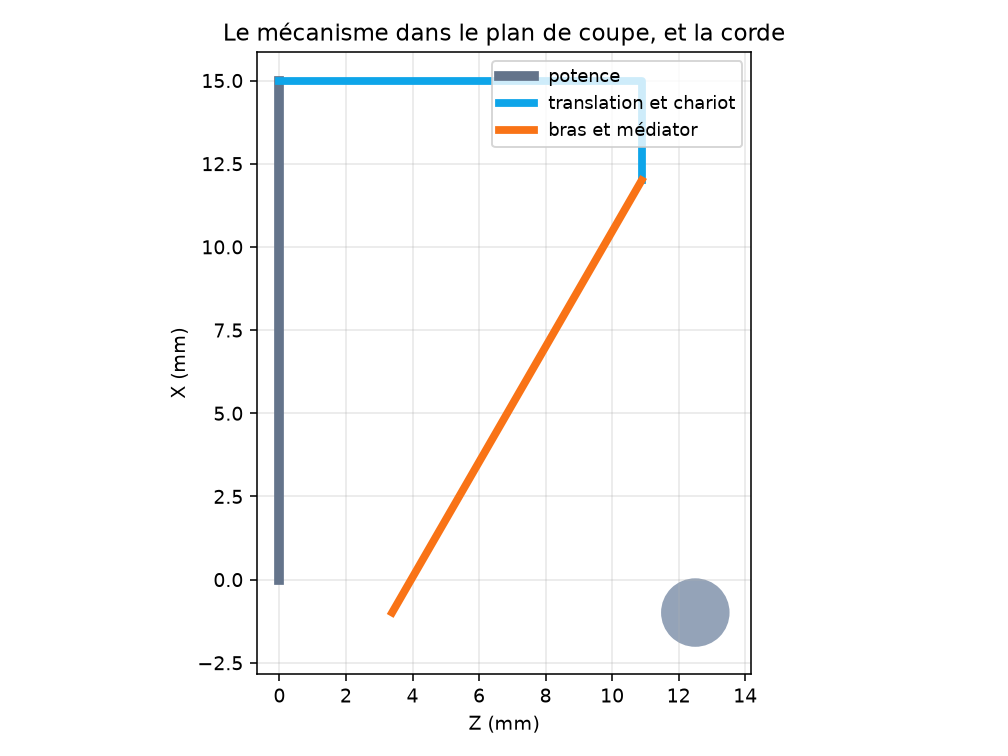
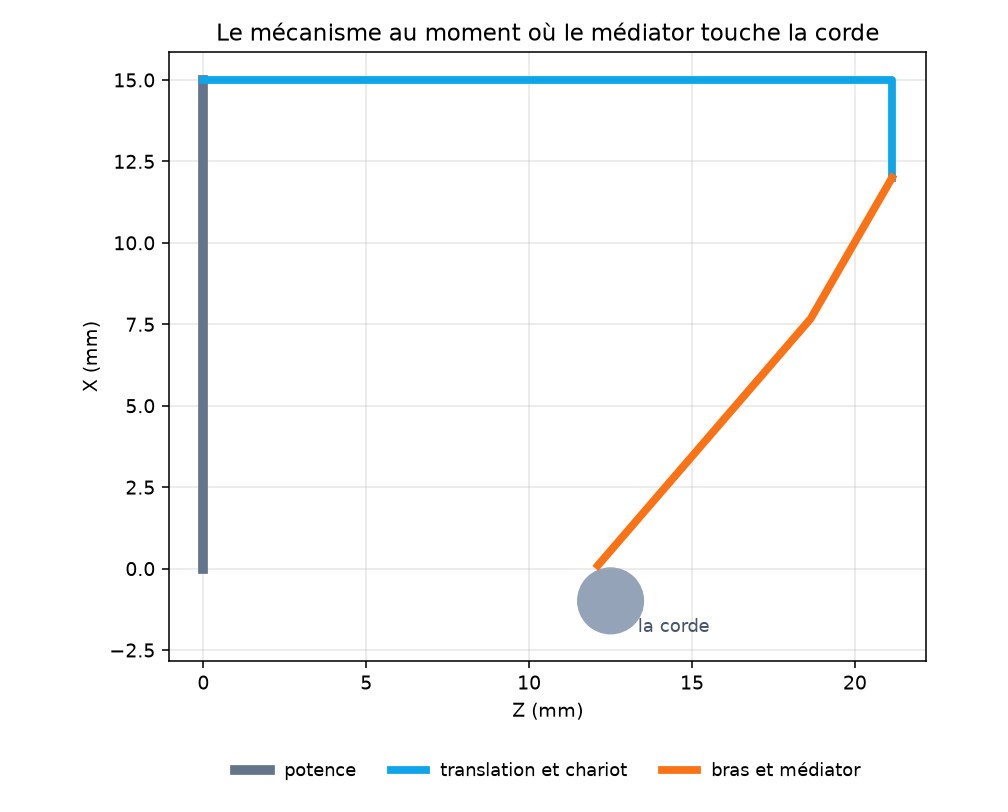
Les images fausses quittent la galerie, et les chapitres cessent d'étaler la page
Robot guitariste : trois figures de plus sont retirées. La simulation
cinématique venait d'un modèle abrégé en unités abstraites, la courbe
d'angle selon la distance doublait une figure déjà présente, et celle
dite « distances corde à corde » montrait en réalité la distance de la
pointe à la corde au fil du temps.

Le relevé du geste tient maintenant en une seule figure, chemin et
vitesse côte à côte, les deux chiffres pris sur la même prise. Ils
venaient de deux prises différentes, ce qui aurait donné 37,7 mm de
balayage pour 465 mm/s, deux nombres jamais produits ensemble.

La coupe du mécanisme est prise à un instant de contact : elle l'était à
un instant quelconque, le médiator se trouvait à l'autre bout de sa
course et la corde flottait seule dans un coin.

Réseau de capteurs : la galerie montre l'atelier refait, ses panneaux
ancrables, son banc réglable et ses courbes. La part du cours est dite,
le programme principal main.c est la part personnelle du micrologiciel.

La liste des chapitres d'un film défile dans son propre cadre :
trente-trois chapitres à la suite poussaient la fiche sur deux écrans.

diff --git a/src/projets/reseau-capteurs-can/fiche.ts b/src/projets/reseau-capteurs-can/fiche.ts
@@ -1,4 +1,9 @@
 import type { Projet } from "../types";
+import dispositionComplete from "./disposition-complete.webp";
+import orientation3d from "./orientation-3d.webp";
+import courbes from "./courbes-en-temps-reel.webp";
+import bancReglable from "./banc-reglable.webp";
+import panneauDetache from "./panneau-detache.webp";
 
 const fiche: Projet = {
   slug: "reseau-capteurs-can",
@@ -13,20 +18,61 @@ const fiche: Projet = {
   cadre: "ENIB · réseaux et systèmes embarqués",
   equipe: "Projet d'équipe",
   role: [
-    "Pilotes CAN, I²C, SPI et UART écrits pour la carte STM32",
-    "Intégration des capteurs : humidité, température, pression, distance, anémomètre, centrale inertielle",
-    "Orientation calculée par fusion de capteurs (algorithme de Madgwick)",
-    "Plan d'identifiants CAN : chaque mesure a sa trame",
-    "Interface PyQt5 : écoute du bus avec python-can, orientation affichée en 3D avec OpenGL",
-    "Commande d'un servomoteur Dynamixel sur liaison série",
+    "Le programme principal du micrologiciel, `main.c` : l'ordonnancement des six capteurs, chacun à son rythme et sans attente bloquante",
+    "Le plan d'identifiants CAN, et la composition de chaque trame à partir des mesures",
+    "L'interface PyQt5 : écoute du bus avec python-can, orientation affichée en 3D avec OpenGL",
+    "La reprise de 2026 : mode de démonstration sans matériel, banc réglable, courbes en temps réel, disposition en panneaux ancrables",
+    "Les pilotes de bus et les bibliothèques de capteurs fournis par le cours sont appelés, non écrits",
   ],
   couleur: "#2f8f6b",
   puce: "STM32F1 · CAN",
+  couverture: {
+    src: dispositionComplete,
+    alt: "L'atelier du réseau de capteurs : banc de réglage, courbes en temps réel, mesures et trames",
+  },
+  galerie: [
+    {
+      src: dispositionComplete,
+      alt: "La disposition complète : banc à gauche, courbes au centre, mesures à droite, trames en bas",
+      legende:
+        "La disposition d'un logiciel de conception, en miniature : les réglages à gauche, la vue qui compte au centre, les mesures à droite, les trames en bas. Chaque panneau se déplace à la souris, se détache en fenêtre, se referme et se rouvre depuis le menu Affichage.",
+      format: "ecran",
+    },
+    {
+      src: bancReglable,
+      alt: "Le banc d'essai : consignes de vent, d'angles, d'ambiance et de proximité",
+      legende:
+        "Le banc répond à une question simple : d'où sortent ces chiffres ? Sans capteur branché, ils sortent d'ici, et le panneau le dit avant le premier curseur. Chaque consigne agit dans la seconde sur la courbe et sur la jauge.",
+      format: "ecran",
+    },
+    {
+      src: courbes,
+      alt: "Courbes en temps réel : la vitesse du vent suit sa consigne en trapèze",
+      legende:
+        "Le régime en rampe montre ce qu'une jauge seule ne montre pas : la vitesse monte à accélération bornée, tient la consigne, redescend. La consigne est en pointillés orange, la mesure en bleu. Les tracés viennent de pyqtgraph, la bibliothèque de tracé en temps réel de l'écosystème Qt.",
+      format: "ecran",
+    },
+    {
+      src: orientation3d,
+      alt: "L'orientation en 3D, et les trois angles d'Euler lus en direct",
+      legende:
+        "L'orientation reconstituée par la fusion de capteurs, en OpenGL, avec les trois angles lus sous la vue et la cadence réelle des trames : le repère tourne parce qu'une trame arrive, et non parce qu'une animation tourne toute seule.",
+      format: "ecran",
+    },
+    {
+      src: panneauDetache,
+      alt: "Un panneau détaché de la fenêtre, posé au-dessus des courbes",
+      legende:
+        "Un panneau s'attrape par son titre et se pose ailleurs, ou sort en fenêtre à lui. C'est l'ancrage fourni avec Qt, celui des logiciels de conception, et non un mécanisme réécrit pour l'occasion.",
+      format: "ecran",
+    },
+  ],
   stack: ["c", "stm32", "can", "python", "qt"],
   chiffres: [
     { valeur: 6, libelle: "capteurs interrogés" },
-    { valeur: 1400, libelle: "lignes pour l'interface" },
+    { valeur: 527, libelle: "lignes du programme principal, la part personnelle" },
     { valeur: 4, libelle: "bus pilotés : CAN, I²C, SPI, UART" },
+    { valeur: 1, suffixe: " commande", libelle: "pour lancer la démonstration, sans matériel" },
   ],
   probleme:
     "Chaque capteur parle sa propre langue : l'un sur I²C, l'autre sur SPI, un troisième par impulsions. Il faut les lire sans se bloquer, puis faire tenir toutes ces mesures sur un même bus partagé.",
@@ -49,12 +95,41 @@ const fiche: Projet = {
         "Chaque mesure est associée à l'identifiant de trame qui la porte",
       ],
     },
+    {
+      titre: "Le montrer sans carte ni bus",
+      texte:
+        "L'interface ouvrait socketcan sur can0 : il fallait Linux et un vrai bus, donc le projet ne se lançait nulle part ailleurs, et personne ne pouvait le voir tourner. Une reprise l'a rendu démontrable sur n'importe quelle machine, en appelant ce qui existait déjà plutôt qu'en réécrivant le transport.",
+      points: [
+        "Le bus se choisit par deux variables d'environnement, et garde son comportement d'origine par défaut",
+        "python-can fournit une interface en mémoire, sans pilote ni matériel : c'est elle qui porte la démonstration",
+        "Les trames sont décrites une fois dans un fichier DBC, le format standard du métier, que le banc et les outils lisent tous les deux",
+        "Une commande lance le réseau simulé et l'interface ensemble, ouvre chaque page, presse chaque bouton et photographie le résultat",
+        "Une capture prise sur le vrai bus se rejoue dans l'interface, à la cadence où elle a été prise",
+      ],
+    },
+  ],
+  lecons: [
+    {
+      titre: "Un projet qui ne se lance que sur le poste de son auteur ne se montre pas",
+      texte:
+        "Le code était complet et le montage avait fonctionné, mais l'adresse du bus était écrite en dur au milieu du fichier. Il a suffi de deux variables d'environnement pour que le projet redevienne démontrable, sans rien changer à ce qu'il fait sur le vrai réseau.",
+    },
+    {
+      titre: "Un bouton qui ne fait rien est pire qu'un bouton absent",
+      texte:
+        "La page des réglages affichait un bus imaginaire, proposait des thèmes qui n'existaient pas et un bouton « Sauvegarder » relié à rien. Elle montre maintenant l'état réel du bus, et ses deux boutons agissent. Le banc simulé, lui, obéit aux commandes que l'interface envoie : presser « Démarrer moteur » fait vraiment monter la vitesse du vent.",
+    },
+    {
+      titre: "Une démonstration qu'on regarde à l'oeil se croit sur parole",
+      texte:
+        "Le déroulé de la démonstration est écrit dans le programme : il ouvre chaque page, presse chaque bouton, photographie, et refuse une capture qui pèse moins de dix kilo-octets, parce qu'une page restée noire pèse ce poids-là. Les images de cette fiche sortent de là.",
+    },
   ],
   extraits: [
     {
       fichier: "rescapt/src/main.c",
       langage: "c",
-      commentaire: "Chaque capteur a son rythme : le vent se compte toutes les 100 ms, l'environnement bien plus lentement. Une seule boucle, des échéances séparées, sans attente bloquante.",
+      commentaire: "Le programme principal, la part personnelle du micrologiciel. Chaque capteur a son rythme : le vent se compte toutes les 100 ms, l'ambiance bien plus lentement. Une seule boucle, des échéances séparées, sans attente bloquante.",
       code: `hts221_activate();          /* humidité et température */
 hts221_storeCalibration();
 lps22hb_setup();            /* pression */
@@ -75,7 +150,7 @@ while (1) {
     {
       fichier: "rescapt/src/drv_can.c",
       langage: "c",
-      commentaire: "Sur un bus CAN, il n'y a pas de destinataire : une trame porte un identifiant, et chaque nœud décide si elle le concerne.",
+      commentaire: "Ce pilote vient du cours, et il est montré pour ce qu'il explique : sur un bus CAN, il n'y a pas de destinataire. Une trame porte un identifiant, et chaque nœud décide si elle le concerne.",
       code: `CanHandle.pTxMsg->IDE = msg.format == CANStandard ? CAN_ID_STD : CAN_ID_EXT;
 
 /* à la réception : l'identifiant dit quelle mesure arrive */
@@ -84,7 +159,7 @@ msg->id     = CanHandle.pRxMsg->IDE == CAN_ID_STD
 msg->format = CanHandle.pRxMsg->IDE == CAN_ID_STD ? CANStandard : CANExtended;`,
     },
   ],
-  depots: [{ libelle: "Micrologiciel et interface", url: "https://github.com/rivaldopiaplle-boop/git_reseau-capteurs", visibilite: "prive", detail: "Dépôt privé : il mêle du code fourni par le cours. Les extraits de la fiche montrent le travail personnel" }],
+  depots: [{ libelle: "Micrologiciel et interface", url: "https://github.com/rivaldopiaplle-boop/git_reseau-capteurs", visibilite: "prive", detail: "Dépôt privé : il mêle du code fourni par le cours. La part personnelle est le programme principal `main.c`, le plan de trames et toute l'interface" }],
 };
 
 export default fiche;

diff --git a/src/projets/robot-guitariste/fiche.ts b/src/projets/robot-guitariste/fiche.ts
@@ -1,15 +1,12 @@
 import type { Projet } from "../types";
-import angleDistance from "./angle-selon-distance.png";
 import cheminPointe from "./chemin-pointe.png";
+import distanceALaCorde from "./distance-a-la-corde.png";
 import coupeMediator from "./coupe-mediator.png";
 import inclinaisonSelonD from "./inclinaison-selon-d.png";
-import gesteMesure from "./geste-mesure.png";
-import gesteVitesse from "./geste-vitesse.png";
+import gesteReleve from "./geste-releve.png";
 import assemblage from "./assemblage.jpg";
 import chariot from "./chariot-lineaire.jpg";
-import distanceCordes from "./distance-cordes.png";
 import mediator from "./mediator-imprime.jpg";
-import simulation from "./simulation-cinematique.png";
 import supportMoteur from "./support-moteur.jpg";
 import tendeur from "./tendeur-courroie.jpg";
 
@@ -71,24 +68,17 @@ const fiche: Projet = {
   ],
   galerie: [
     {
-      src: gesteMesure,
-      alt: "Le geste du médiator relevé image par image",
+      src: gesteReleve,
+      alt: "Le geste d'un guitariste relevé image par image : chemin du médiator et vitesse",
       legende:
-        "Le point de départ : le geste d'un guitariste filmé à cinquante images par seconde, puis suivi point par point. Étalonnage pris sur l'écart de onze millimètres entre deux cordes",
-      format: "schema",
-    },
-    {
-      src: gesteVitesse,
-      alt: "Vitesse et accélération du geste mesuré",
-      legende:
-        "Ce que le mécanisme doit reproduire : 33,3 mm de balayage, 465 mm/s en pointe. Ces chiffres sont la cible relevée sur le geste humain, et l'atelier en ligne dit ce que le mécanisme, lui, sait faire",
+        "Le point de départ : le geste d'un guitariste filmé à cinquante images par seconde, puis suivi point par point, l'étalonnage étant pris sur l'écart de onze millimètres entre deux cordes. Le chemin à gauche, la vitesse à droite, et les deux chiffres qui fixent la cible : 33,3 mm de balayage, 465 mm/s en pointe, relevés sur la même prise",
       format: "schema",
     },
     {
       src: coupeMediator,
-      alt: "Le mécanisme dans le plan de coupe, avec la corde",
+      alt: "Le mécanisme à l'instant où le médiator touche la corde",
       legende:
-        "Le mécanisme dans le plan où la corde est un cercle : la potence à gauche, la translation en haut, puis le bras et le médiator. Les cotes sont en millimètres, et elles sortent du modèle du projet",
+        "Le mécanisme dans le plan où la corde est un cercle, pris à un instant de contact : la potence à gauche, la translation en haut, puis le bras et le médiator dont la lame s'efface contre la corde. Les cotes sont en millimètres, et elles sortent du modèle du projet",
       format: "schema",
     },
     {
@@ -110,9 +100,13 @@ const fiche: Projet = {
     { src: supportMoteur, alt: "Support du moteur pas-à-pas", legende: "Support du moteur pas-à-pas", format: "photo" },
     { src: tendeur, alt: "Système tendeur de courroie", legende: "Tendeur de courroie : la précision de positionnement", format: "photo" },
     { src: mediator, alt: "Médiator imprimé en 3D", legende: "Médiator imprimé en 3D", format: "photo" },
-    { src: simulation, alt: "Simulation cinématique du bras", legende: "Simulation : la chaîne cinématique du bras, en Python", format: "schema" },
-    { src: angleDistance, alt: "Courbe de l'angle total selon la distance", legende: "Angle total en fonction de la distance", format: "schema" },
-    { src: distanceCordes, alt: "Distances entre cordes", legende: "Distances corde à corde", format: "schema" },
+    {
+      src: distanceALaCorde,
+      alt: "Distance de la pointe du médiator à l'axe de la corde, au fil d'une période",
+      legende:
+        "Deux contacts par période : la pointe descend jusqu'au rayon de la corde, y reste le temps de l'attaque, puis s'en éloigne. Le palier au niveau de la bande orange est le contact lui-même.",
+      format: "schema",
+    },
   ],
   stack: ["python", "c", "stm32", "arm", "solidworks"],
   chiffres: [

diff --git a/src/composants/Lecteur.tsx b/src/composants/Lecteur.tsx
@@ -47,7 +47,16 @@ export function Lecteur({ film }: { film: Film }) {
       <div>
         <p className="text-sm text-encre-2">{film.legende}</p>
         {film.chapitres?.length ? (
-          <ol className="mt-4 divide-y divide-ligne overflow-hidden rounded-2xl border border-ligne bg-surface">
+          <>
+            <p className="mt-4 text-xs font-semibold uppercase tracking-wide text-encre-3">
+              {film.chapitres.length} chapitres, cliquez pour y aller
+            </p>
+            {/*
+              La liste défile dans son propre cadre.
+              Trente-trois chapitres à la suite poussaient la page sur deux écrans,
+              et le reste de la fiche passait sous la ligne de flottaison.
+            */}
+            <ol className="mt-2 max-h-72 divide-y divide-ligne overflow-y-auto overscroll-contain rounded-2xl border border-ligne bg-surface">
             {film.chapitres.map((chapitre, rang) => (
               <li key={chapitre.instant}>
                 <button
@@ -64,8 +73,9 @@ export function Lecteur({ film }: { film: Film }) {
                   </span>
                 </button>
               </li>
-            ))}
-          </ol>
+              ))}
+            </ol>
+          </>
         ) : null}
       </div>
     </div>
